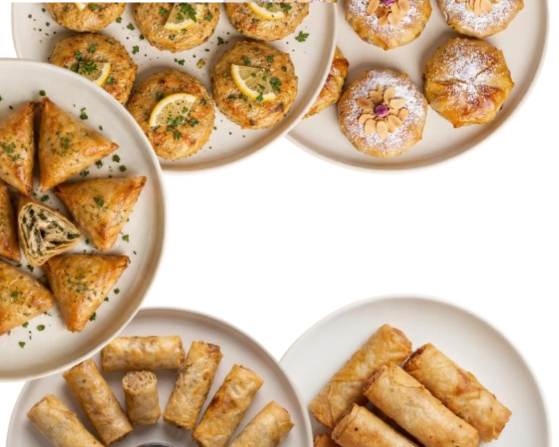
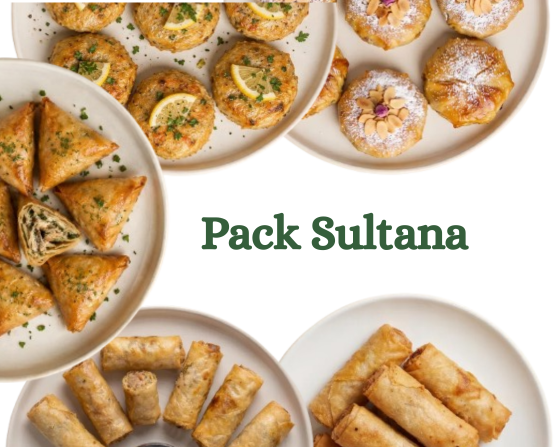
Update website colors, pack images and headings

Changed region(s): [[0.3649, 0.4653, 0.8515, 0.5817]]

diff --git a/index.html b/index.html
@@ -4,7 +4,7 @@
 <head>
   <meta charset="UTF-8">
   <meta name="viewport" content="width=device-width, initial-scale=1.0">
-  <meta name="theme-color" content="#500911">
+  <meta name="theme-color" content="#355E3B">
   <meta name="description" content="La Maison Sultana — Mini pastillas marocaines, élégance et tradition.">
   <title>La Maison Sultana | Mini Pastillas</title>
 
@@ -14,7 +14,7 @@
 
   <style>
     :root {
-      --burgundy: #500911;
+      --burgundy: #355E3B;
       --gold: #B88738;
       --cream: #F0E3D2;
       --black: #1F1F1F;
@@ -932,7 +932,7 @@ section.packs .pack-items {
 .cart-trigger {
   display:inline-flex; align-items:center; gap:9px; cursor:pointer;
   border:1px solid #B88738; border-radius:999px; padding:10px 14px;
-  color:#F0E3D2; background:#500911; font:inherit; letter-spacing:.04em;
+  color:#F0E3D2; background:#355E3B; font:inherit; letter-spacing:.04em;
 }
 .cart-count {
   display:inline-grid; place-items:center; min-width:22px; height:22px;
@@ -960,24 +960,24 @@ html[dir="rtl"] .cart-drawer {
 .cart-is-open { overflow:hidden; }
 .cart-head { display:flex; justify-content:space-between; align-items:center; gap:16px; padding-bottom:18px; border-bottom:1px solid #B88738; }
 .cart-kicker { margin:0 0 5px; color:#8B6A32; font-size:11px; letter-spacing:.16em; }
-.cart-head h2 { margin:0; color:#500911; font-size:28px; }
-.cart-close { border:1px solid #B88738; border-radius:50%; width:42px; height:42px; background:transparent; color:#500911; font-size:28px; cursor:pointer; }
+.cart-head h2 { margin:0; color:#355E3B; font-size:28px; }
+.cart-close { border:1px solid #B88738; border-radius:50%; width:42px; height:42px; background:transparent; color:#355E3B; font-size:28px; cursor:pointer; }
 .cart-items { display:grid; gap:14px; padding:18px 0; }
 .cart-empty { padding:22px 8px; text-align:center; color:#66534C; line-height:1.7; }
 .cart-line { display:flex; gap:12px; padding:12px 0; border-bottom:1px solid #d9c5a8; }
 .cart-line img { width:82px; height:90px; flex-shrink:0; object-fit:cover; border-radius:8px; }
 .cart-line-info { flex:1; min-width:0; display:flex; flex-direction:column; align-items:flex-start; gap:6px; }
-.cart-line-info strong { color:#500911; }
+.cart-line-info strong { color:#355E3B; }
 .cart-line-info small { color:#66534C; }
 .cart-line-price { margin-top:2px; }
 .cart-quantity { display:flex; align-items:center; gap:12px; margin-top:4px; }
-.cart-quantity button { width:30px; height:30px; border:1px solid #B88738; border-radius:50%; background:#fffaf2; color:#500911; font-size:18px; cursor:pointer; }
+.cart-quantity button { width:30px; height:30px; border:1px solid #B88738; border-radius:50%; background:#fffaf2; color:#355E3B; font-size:18px; cursor:pointer; }
 .cart-remove { border:0; padding:2px 0; background:transparent; color:#7B2626; text-decoration:underline; cursor:pointer; }
 .cart-summary { display:grid; grid-template-columns:1fr auto; gap:8px; padding:16px 0; border-top:1px solid #B88738; }
-.cart-summary strong { color:#500911; font-size:22px; }
+.cart-summary strong { color:#355E3B; font-size:22px; }
 .cart-summary small { grid-column:1/-1; color:#66534C; line-height:1.6; }
 .cart-checkout { display:grid; gap:9px; padding-top:12px; }
-.cart-checkout h3 { margin:4px 0 8px; color:#500911; }
+.cart-checkout h3 { margin:4px 0 8px; color:#355E3B; }
 .cart-checkout label { margin-top:4px; font-size:13px; font-weight:700; }
 .cart-checkout input, .cart-checkout textarea {
   width:100%; box-sizing:border-box; padding:12px; border:1px solid #c8b18e;
@@ -986,7 +986,7 @@ html[dir="rtl"] .cart-drawer {
 .cart-checkout input:focus, .cart-checkout textarea:focus { outline:2px solid #B88738; outline-offset:1px; }
 .cart-submit {
   margin-top:10px; width:100%; padding:15px 12px; border:1px solid #B88738;
-  border-radius:8px; background:#500911; color:#F0E3D2; font:inherit;
+  border-radius:8px; background:#355E3B; color:#F0E3D2; font:inherit;
   font-weight:800; letter-spacing:.04em; cursor:pointer;
 }
 .cart-submit:disabled { opacity:.5; cursor:not-allowed; }
@@ -1040,7 +1040,7 @@ html[dir="rtl"] .cart-drawer {
     display: block;
     width: 18px;
     height: 2px;
-    background: #500911;
+    background: #355E3B;
   }
 
   header.phone-header-v2 > .brand {
@@ -1115,7 +1115,7 @@ html[dir="rtl"] .cart-drawer {
   header.phone-header-v2 > .phone-v2-menu > a {
     display: block;
     padding: 13px 4px;
-    color: #500911;
+    color: #355E3B;
     border-bottom: 1px solid rgba(80,9,17,.14);
   }
 
@@ -2315,13 +2315,13 @@ html {
   .cart-line-info strong,
   .cart-summary strong,
   .cart-checkout h3 {
-    color: #500911 !important;
+    color: #355E3B !important;
   }
 
   .cart-close {
     border-color: #B88738 !important;
     background: #FFFFFF !important;
-    color: #500911 !important;
+    color: #355E3B !important;
   }
 
   .cart-line {
@@ -2368,7 +2368,7 @@ html {
 
   .cart-submit:hover:not(:disabled) {
     background: #F0E3D2 !important;
-    color: #500911 !important;
+    color: #355E3B !important;
   }
 
   .cart-submit:disabled {
@@ -2489,7 +2489,6 @@ html {
         <img class="pack-image" src="images/packs/2.png" alt="Le Grand Assortiment" loading="lazy">
 
         <div class="pack-body">
-          <h3 data-fr="Pack Sultana" data-ar="باك سلطانة">Pack Sultana</h3>
           <p class="pack-description" data-fr="Cinq spécialités, six pièces de chaque." data-ar="خمس نكهات، ست حبات من كل نوع.">Cinq spécialités, six pièces de chaque.</p>
           <p class="pack-quantity" data-fr="30 pièces" data-ar="30 حبة">30 pièces</p>
           <div class="prep-options">
@@ -2571,7 +2570,6 @@ html {
         <img class="pack-image" src="images/packs/5.png" alt="Saveurs Marines" loading="lazy">
 
         <div class="pack-body">
-          <h3 data-fr="Saveurs Marines" data-ar="نكهات بحرية">Saveurs Marines</h3>
           <p class="pack-description" data-fr="Pastillas au poisson et nems asiatiques." data-ar="بسطيلات السمك والنيمس الآسيوية.">Pastillas au poisson et nems asiatiques.</p>
           <p class="pack-quantity" data-fr="12 pièces" data-ar="12 حبة">12 pièces</p>
           <div class="prep-options">

diff --git a/commande.html b/commande.html
@@ -3,11 +3,11 @@
 <head>
 <meta charset="UTF-8">
 <meta name="viewport" content="width=device-width, initial-scale=1.0">
-<meta name="theme-color" content="#500911">
+<meta name="theme-color" content="#355E3B">
 <title>Finaliser ma commande | La Maison Sultana</title>
 <style>
 :root {
-  --burgundy: #500911;
+  --burgundy: #355E3B;
   --gold: #B88738;
   --cream: #F0E3D2;
   --ink: #1F1F1F;
@@ -128,7 +128,7 @@ input:focus, textarea:focus, select:focus {
     align-self: flex-start;
     padding: 10px 14px;
     border: 1px solid #B88738;
-    background: #500911;
+    background: #355E3B;
     color: #F0E3D2;
     cursor: pointer;
     font: inherit;
@@ -189,7 +189,7 @@ input:focus, textarea:focus, select:focus {
   }
 
   header .brand {
-    color: #500911 !important;
+    color: #355E3B !important;
   }
 
   #orderForm .submit,
@@ -202,7 +202,7 @@ input:focus, textarea:focus, select:focus {
   #orderForm .submit:hover,
   #useMyLocation.location-button:hover {
     background: #F0E3D2 !important;
-    color: #500911 !important;
+    color: #355E3B !important;
   }
 </style>
 
@@ -241,7 +241,7 @@ input:focus, textarea:focus, select:focus {
 
   button.submit[form="orderForm"]:hover {
     background: #F0E3D2 !important;
-    color: #500911 !important;
+    color: #355E3B !important;
   }
 </style>
 
